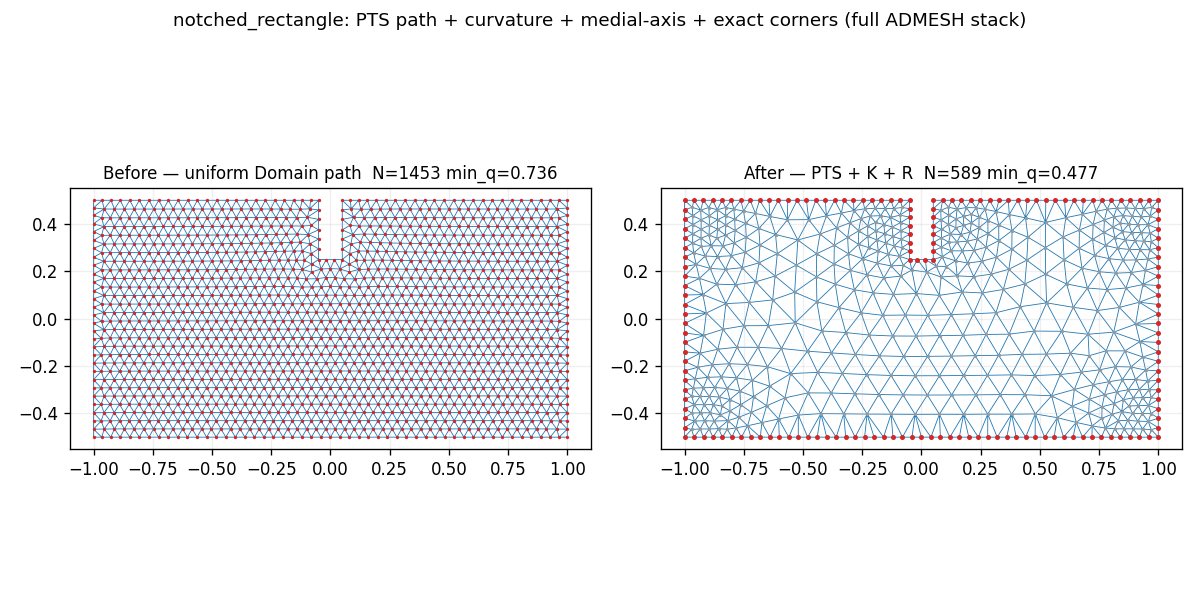
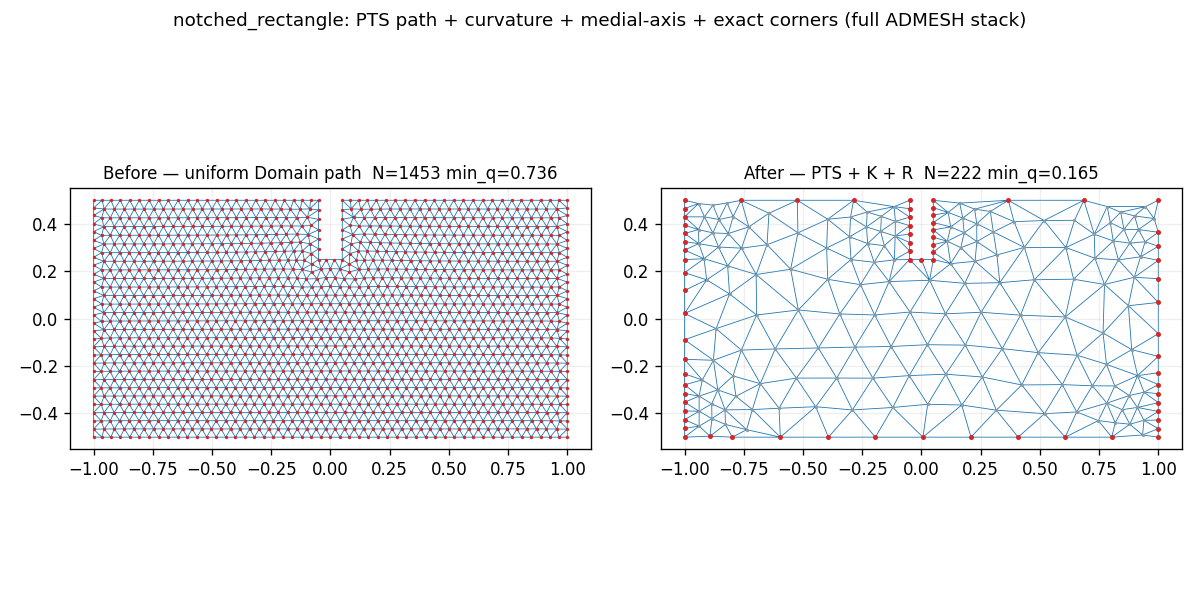
fix: stop over-pinning boundary rings in distmesh2d_admesh
MATLAB ADMESH GetMeshConstraints.m only pins points from PTS.BC
(open-ocean BC, line constraints, barriers) — not the densified
polygon ring. Our port stuffed the full ring into pfix, which
forced uniform boundary spacing regardless of curvature/fh.

Fix: distmesh2d_admesh now takes an explicit pfix kwarg (default
None = no pinning, matching MATLAB's empty-PTS.BC branch). Boundary
nodes emerge from truss equilibrium + projectBackToBoundary at
fh-driven spacing.

Also: _boundary_cleanup now iterates to fixed-point — single passes
miss sliver chains where one layer surfaces only after the previous
is removed (more visible without ring-pin).

Demo update: notched_rect demo passes pfix=dom.fixed_points (8
sharp corners only). Boundary nodes now cluster near notch tips
where fh is small.

Changed region(s): [[0.555, 0.33, 0.9867, 0.75], [0.7708, 0.27, 0.925, 0.3]]

diff --git a/admesh/distmesh.py b/admesh/distmesh.py
@@ -299,11 +299,15 @@ class MeshOutput:
 def _boundary_cleanup(
     p: Points, t: NDArray[np.int64], C: NDArray[np.int64] | None = None
 ) -> NDArray[np.int64]:
-    """Port of ``BoundaryCleanUp.m``.
+    """Port of ``BoundaryCleanUp.m``, applied iteratively to fixed-point.
 
     Drops triangles attached to the free boundary whose element
     quality ``q = (b+c-a)(c+a-b)(a+b-c)/(abc)`` is below ``0.15``.
-    Preserves triangles containing any constrained edge.
+    Preserves triangles containing any constrained edge. Iterates
+    until no further triangles are dropped — a single pass only
+    catches slivers attached to the *current* free boundary, so when
+    pfix-free runs leave near-boundary slivers in chains, the second
+    layer surfaces only after the first is removed.
 
     Parameters
     ----------
@@ -313,6 +317,17 @@ def _boundary_cleanup(
         Constrained edges (vertex-index pairs). Triangles attached to
         any constrained edge are kept regardless of quality.
     """
+    prev = -1
+    while t.size and len(t) != prev:
+        prev = len(t)
+        t = _boundary_cleanup_one_pass(p, t, C)
+    return t
+
+
+def _boundary_cleanup_one_pass(
+    p: Points, t: NDArray[np.int64], C: NDArray[np.int64] | None = None
+) -> NDArray[np.int64]:
+    """Single pass of ``BoundaryCleanUp.m``."""
     if t.size == 0:
         return t
 
@@ -430,6 +445,7 @@ def distmesh2d_admesh(
     fh: SizeFn | None,
     h0: float,
     *,
+    pfix: ArrayLike | None = None,
     cleanup: bool = True,
     **opts,
 ) -> MeshOutput:
@@ -449,6 +465,14 @@ def distmesh2d_admesh(
         Mesh-size function; uniform if ``None``.
     h0 : float
         Target minimum edge length (``hmin`` in the MATLAB source).
+    pfix : (M, 2) array or None
+        Fixed points (always present in the mesh, never moved). Mirrors
+        MATLAB ``GetMeshConstraints`` semantics: only points from
+        ``PTS.BC`` constraints are pinned, **not** the densified ring
+        vertices. Pass ``None`` (default) for no pinning — the boundary
+        emerges from truss equilibrium + ``projectBackToBoundary`` at
+        ``fh``-driven spacing. Pass a small set of corner / constraint
+        points to anchor sharp features that must land exactly.
     cleanup : bool
         Run :func:`_boundary_cleanup` on the final best-quality mesh.
     **opts :
@@ -481,19 +505,27 @@ def distmesh2d_admesh(
     p = _initial_point_list_from_pts(fd, pts, h0, geps)
     p = _rejection_method(p, fh, rng)
 
-    # Constraints (pfix): PTS ring vertices concatenated. No interior
-    # edge constraints in this port — matches MATLAB's ``C = []``
-    # branch when the PTS has no ``Constraints`` field.
-    pfix = np.vstack(pts.rings) if pts.rings else np.empty((0, 2))
-    nC = len(pfix)
+    # Constraints (pfix). Faithful to MATLAB ``GetMeshConstraints.m``
+    # @ 19b2eb9: pfix is **only** the points from ``PTS.BC`` (open-ocean
+    # BC, line constraints, barriers) — *not* the densified polygon
+    # ring. When the PTS has no constraints, ``nC = 0`` and the boundary
+    # emerges from truss equilibrium + ``projectBackToBoundary``, with
+    # spacing driven by ``fh``. Pre-Apr-26 code stuffed the entire ring
+    # into pfix, which forced uniform boundary spacing regardless of
+    # curvature.
+    if pfix is not None:
+        pfix_arr = np.asarray(pfix, dtype=float).reshape(-1, 2)
+    else:
+        pfix_arr = np.empty((0, 2))
+    nC = len(pfix_arr)
     if nC:
         # Drop free points that coincide with a fixed point.
         if len(p):
             d2fix = np.min(
-                np.linalg.norm(p[:, None, :] - pfix[None, :, :], axis=2), axis=1
+                np.linalg.norm(p[:, None, :] - pfix_arr[None, :, :], axis=2), axis=1
             )
             p = p[d2fix > geps]
-        p = np.vstack([pfix, p])
+        p = np.vstack([pfix_arr, p])
     C: NDArray[np.int64] | None = None  # no interior constraints
 
     N = len(p)

diff --git a/scripts/render_p1p3_demos.py b/scripts/render_p1p3_demos.py
@@ -188,7 +188,13 @@ def demo_notched_rect_medial():
     p0, t0 = triangulate(dom, h0=boundary_scale, niter=200, seed=0)
     m_before = _metrics(p0, t0)
 
-    # After: PTS path with exact-corner densified ring + K + R + boundary scale.
+    # After: PTS path with exact-corner densified ring (for SDF / bbox)
+    # + K + R + boundary scale. Pin **only** the 8 corner vertices as
+    # pfix — mirrors MATLAB ``GetMeshConstraints.m`` semantics where
+    # only ``PTS.BC`` constraint points are pinned, not the densified
+    # ring. The boundary then emerges from truss equilibrium +
+    # ``projectBackToBoundary`` at ``fh_after``-driven spacing — denser
+    # near the notch tips (small ``fh``), coarser along straight runs.
     ring = _densify_ring(dom.fixed_points, spacing=boundary_scale)
     pts = PTS.from_polygons(ring, bc=[BoundaryType.WALL])
     fh_after = build_h(
@@ -197,7 +203,10 @@ def demo_notched_rect_medial():
         boundary_scale={int(BoundaryType.WALL): boundary_scale},
         grid_delta=0.01,
     )
-    out = triangulate(pts, h0=boundary_scale, fh=fh_after, seed=0, fd=dom.fd)
+    out = triangulate(
+        pts, h0=boundary_scale, fh=fh_after, seed=0, fd=dom.fd,
+        pfix=dom.fixed_points,
+    )
     m_after = _metrics(out.p, out.t)
 
     fig, axes = plt.subplots(1, 2, figsize=(10, 5))